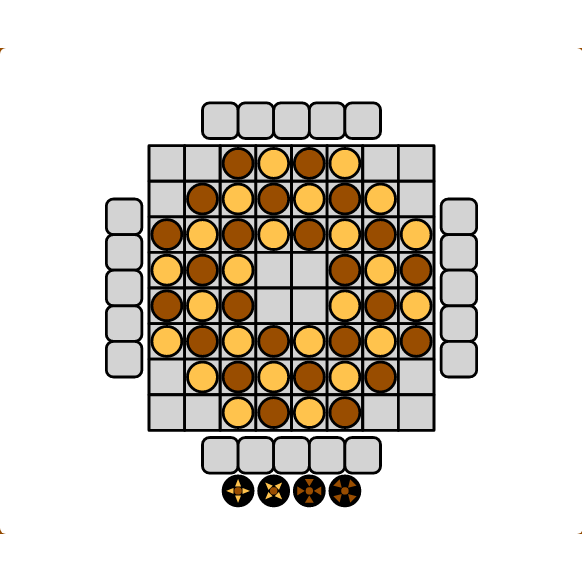
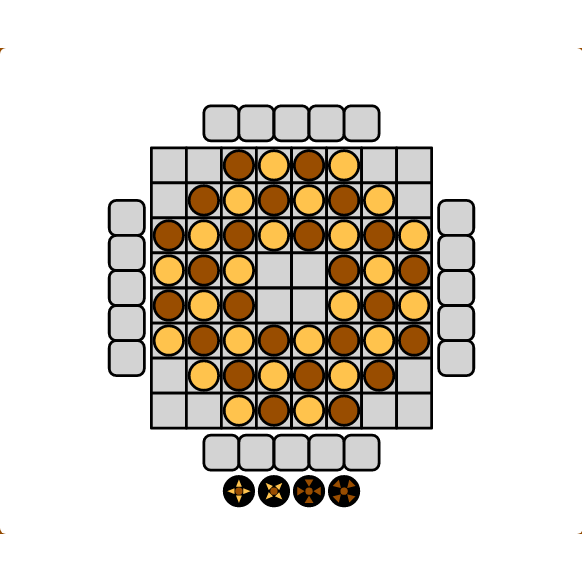
[lodestone] More PR comments

Changed region(s): [[0.1546, 0.1546, 0.8351, 0.866], [0.6495, 0.7732, 0.6804, 0.8041], [0.6495, 0.1856, 0.6804, 0.2165]]

diff --git a/src/app/games/lodestone/lodestone.component.ts b/src/app/games/lodestone/lodestone.component.ts
@@ -142,9 +142,7 @@ export class LodestoneComponent
             return MGPValidation.SUCCESS;
         }
     }
-    public async selectLodestone(lodestone: LodestoneDescription)
-    : Promise<MGPValidation>
-    {
+    public async selectLodestone(lodestone: LodestoneDescription): Promise<MGPValidation> {
         const clickValidity: MGPValidation = this.canUserPlay('#lodestone_' + lodestone.direction + '_' + lodestone.orientation);
         if (clickValidity.isFailure()) {
             return this.cancelMove(clickValidity.getReason());
@@ -520,13 +518,13 @@ export class LodestoneComponent
     public getCaptureTransform(x: number): string {
         const dx: number = (x + (4 - this.viewInfo.capturesToPlace.length / 2)) * this.SPACE_SIZE +
             this.STROKE_WIDTH + this.SPACE_SIZE / 2;
-        const dy: number = -20 + -2 * this.SPACE_SIZE + this.STROKE_WIDTH + this.SPACE_SIZE / 2;
+        const dy: number = -30 + -2 * this.SPACE_SIZE + this.STROKE_WIDTH + this.SPACE_SIZE / 2;
         return `translate(${dx}, ${dy})`;
     }
     public getAvailableLodestoneTransform(x: number): string {
         const dx: number = (x + (this.viewInfo.availableLodestones.length / 2)) * this.SPACE_SIZE +
             this.STROKE_WIDTH + this.SPACE_SIZE / 2;
-        const dy: number = 20 + 9 * this.SPACE_SIZE + this.STROKE_WIDTH + this.SPACE_SIZE / 2;
+        const dy: number = 30 + 9 * this.SPACE_SIZE + this.STROKE_WIDTH + this.SPACE_SIZE / 2;
         return `translate(${dx}, ${dy})`;
     }
     public getPressurePlateTransform(position: LodestonePressurePlatePosition): string {

diff --git a/src/app/components/wrapper-components/tutorial-game-wrapper/tutorial-game-wrapper.wrapper.component.spec.ts b/src/app/components/wrapper-components/tutorial-game-wrapper/tutorial-game-wrapper.wrapper.component.spec.ts
@@ -887,7 +887,7 @@ describe('TutorialGameWrapperComponent (wrapper)', () => {
                 ),
             ];
             wrapper.startTutorial(tutorial);
-            // This click is legal, however it is not the one expected from the tutorial!
+            // This click is legal, however it is not the one expected by the tutorial!
             await componentTestUtils.expectClickSuccess('#chooseCoord_1_1');
 
             // When clicking on 'see solution'

diff --git a/src/app/games/lodestone/lodestone.component.html b/src/app/games/lodestone/lodestone.component.html
@@ -1,6 +1,6 @@
 <svg xmlns="http://www.w3.org/2000/svg"
      width="100%" height="auto"
-     viewBox="-100 -210 1016 1236"
+     viewBox="-100 -220 1016 1256"
      preserveAspectRatio="xMidYMid meet">
     <g *ngFor="let line of viewInfo.boardInfo; index as y">
         <g *ngFor="let square of line; index as x">
